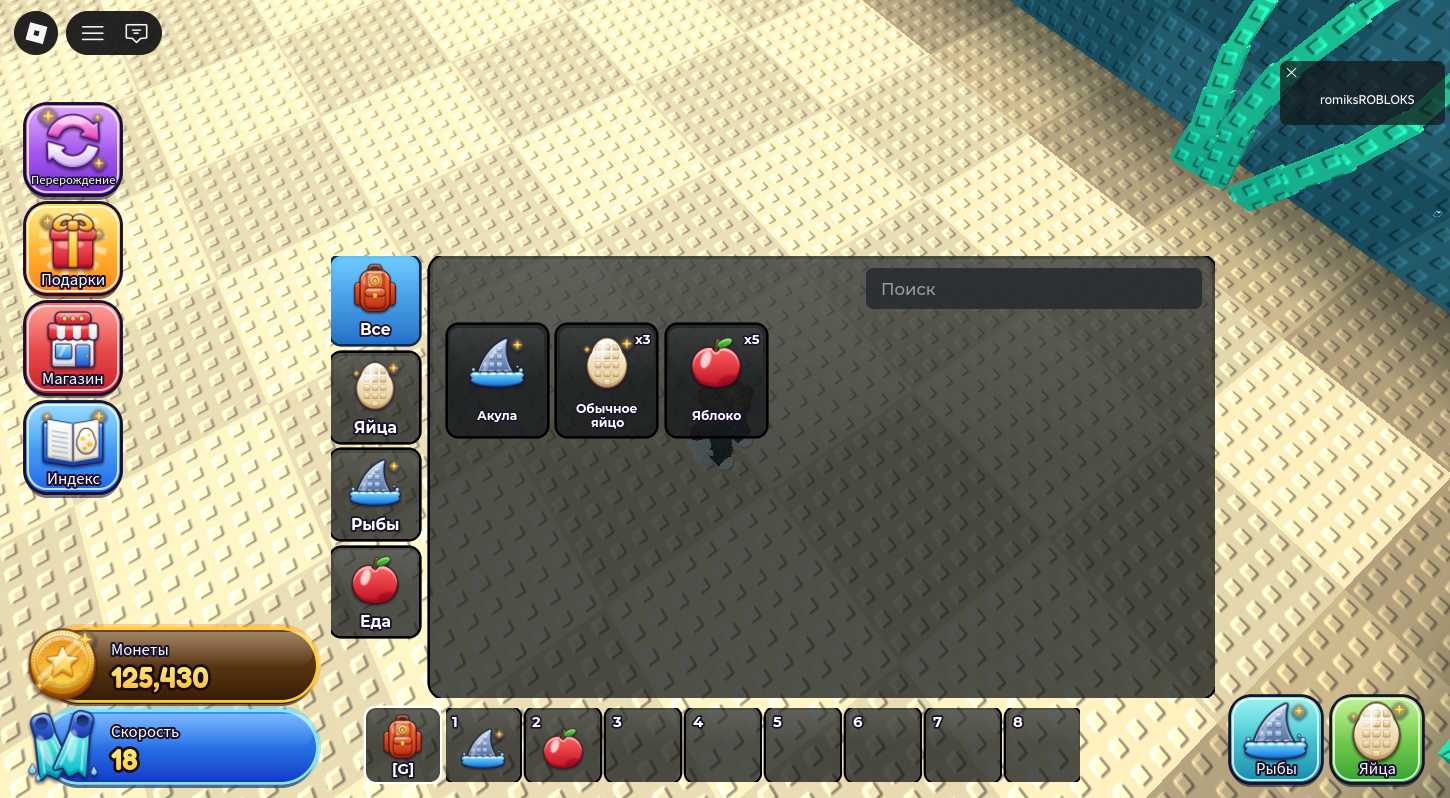
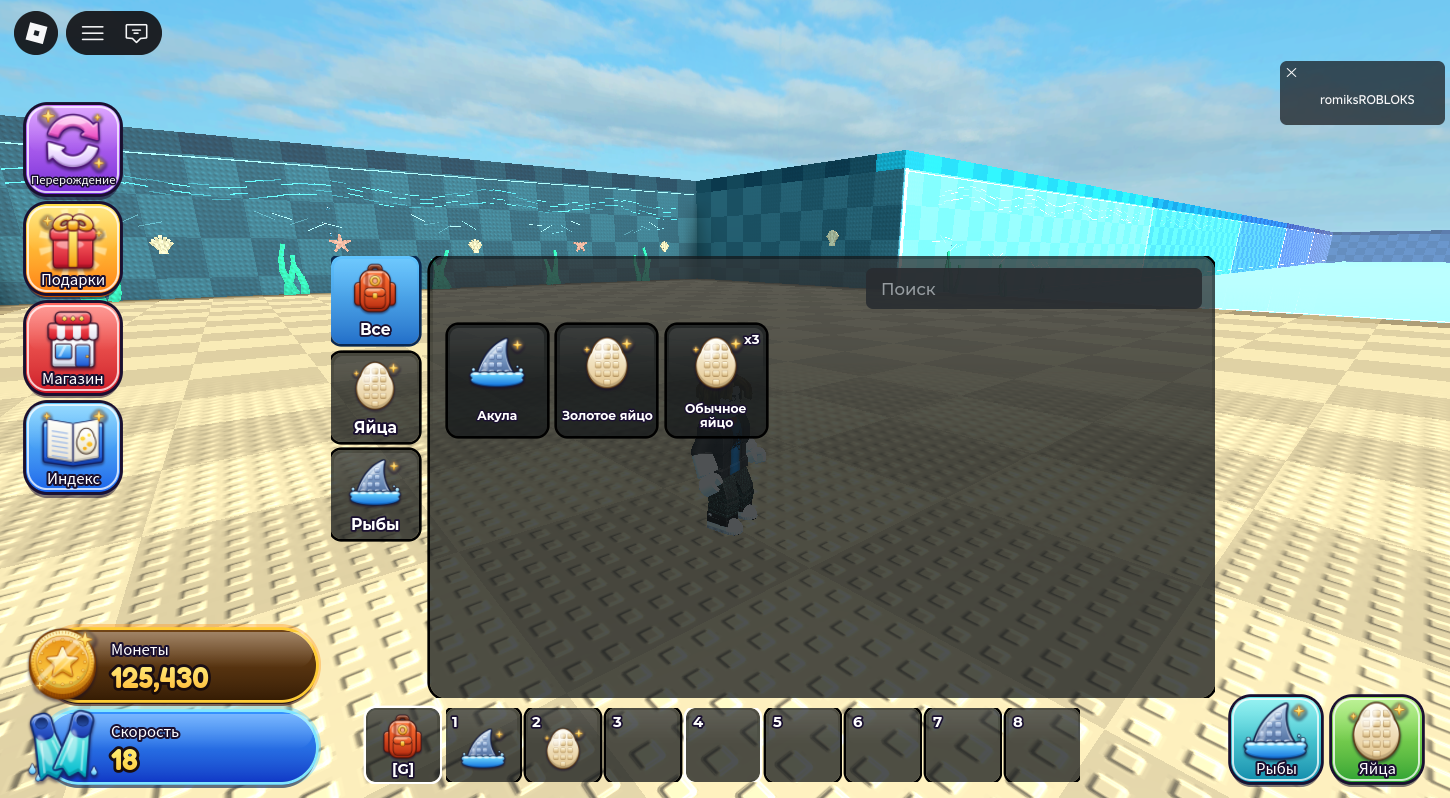
OceanHUD 3.4: remove the Food tab from the inventory
- Tabs are now Все / Яйца / Рыбы; Food category, icon and sample item removed
- Studio sample: golden egg in hotbar slot 2 instead of apples
- 160 offline checks; verified in Studio

diff --git a/brain rot/OceanHUD/tools/draw_icons.py b/brain rot/OceanHUD/tools/draw_icons.py
@@ -411,22 +411,5 @@ def backpack():
     finish(cv, "Backpack")
 
 
-def food():
-    """Shiny red apple with a stem and a leaf."""
-    cv = canvas()
-    outline = (80, 8, 16)
-    apple = smooth(union(ell(400, 590, 290, 320), ell(624, 590, 290, 320), ell(512, 700, 330, 230)), 10)
-    apple = minus(apple, ell(512, 270, 70, 60))
-    part(cv, apple, (255, 96, 96), (192, 16, 36), outline, ow=24, gloss=False)
-    shine = inter(shrink(apple, 30), ell(340, 470, 80, 150, -20))
-    paint(cv, shine.filter(ImageFilter.GaussianBlur(10)), solid((255, 255, 255)), 0.75)
-    paint(cv, inter(shrink(apple, 20), ell(700, 820, 160, 80, 20)).filter(ImageFilter.GaussianBlur(16)), solid((120, 0, 20)), 0.45)
-    part(cv, rrect(490, 120, 540, 330, 20).rotate(-10, center=(512, 300), resample=Image.BICUBIC), (140, 90, 40), (90, 50, 20), outline=(50, 24, 8), ow=12, gloss=False)
-    leaf = ell(660, 190, 130, 62, 25)
-    part(cv, leaf, (140, 236, 90), (40, 150, 40), outline=(16, 70, 16), ow=14, gloss=False)
-    paint(cv, rrect(580, 186, 740, 196, 5).rotate(25, center=(660, 190), resample=Image.BICUBIC), solid((30, 110, 30)), 0.8)
-    finish(cv, "Food")
-
-
-for fn in (rebirth, gifts, shop, index, coin, flippers, shark_fin, egg_icon, sparkle_icon, backpack, food):
+for fn in (rebirth, gifts, shop, index, coin, flippers, shark_fin, egg_icon, sparkle_icon, backpack):
     fn()

diff --git a/brain rot/OceanHUD/README.md b/brain rot/OceanHUD/README.md
@@ -1,4 +1,4 @@
-# OceanHUD v3.3 — интерфейс игры
+# OceanHUD v3.4 — интерфейс игры
 
 ![HUD в Roblox Studio](OceanHUD-preview.png)
 
@@ -17,7 +17,7 @@
    чтобы они показывались без загрузки на Roblox.
 2. Открой **OceanMap-with-HUD.rbxl** и нажми **Play (F5)**.
    В Studio скрипт `OceanHUDTestData` сразу выставляет тестовые значения:
-   монеты 125,430, скорость 18, в инвентаре 3 яйца, акула и 5 яблок; акула в слоте 1, яблоко в слоте 2.
+   монеты 125,430, скорость 18, в инвентаре 3 обычных яйца, золотое яйцо и акула; акула в слоте 1, золотое яйцо в слоте 2.
 
 Во время игры можно выполнить в **Command Bar** (переключатель Server):
 
@@ -34,7 +34,7 @@ I.add(p, "BasicEgg", {Name = "Обычное яйцо", Category = "Eggs", Icon 
 - **Закрыт:** внизу по центру одна ячейка с рюкзаком и подписью `[G]`.
 - **Открыт** (клавиша **G**, клик по рюкзаку или кнопки «Рыбы»/«Яйца»):
   - рюкзак встаёт в начало хотбара и получает белую рамку, рядом появляются ячейки **1–8**;
-  - над хотбаром появляется окно: вкладки **Все / Яйца / Рыбы / Еда**, поиск и сетка предметов;
+  - над хотбаром появляется окно: вкладки **Все / Яйца / Рыбы**, поиск и сетка предметов;
   - если ничего не найдено, показывается надпись «Здесь пока ничего нет».
 - **Поиск** не учитывает регистр, в том числе для русских букв.
 - **Хотбар:** клавиши **1–8** или клик выбирают ячейку, повторное нажатие снимает выбор.
@@ -44,7 +44,7 @@ I.add(p, "BasicEgg", {Name = "Обычное яйцо", Category = "Eggs", Icon 
 
 **Данные инвентаря** хранит сервер (`OceanInventory`), клиент только показывает их.
 Каждый предмет — это `Folder` внутри `Player.Inventory` с атрибутами
-`DisplayName`, `Category` (`Eggs` / `Fish` / `Food`), `Icon`, `Count`, `HotbarSlot` (1–8, необязательно).
+`DisplayName`, `Category` (`Eggs` / `Fish`), `Icon`, `Count`, `HotbarSlot` (1–8, необязательно).
 Методы: `add`, `remove`, `count`, `setHotbar`.
 
 ## Иконки для опубликованной игры (обязательно)
@@ -53,7 +53,7 @@ I.add(p, "BasicEgg", {Name = "Обычное яйцо", Category = "Eggs", Icon 
 Чтобы иконки увидели другие игроки:
 
 1. В Studio открой **Window → Asset Manager → Bulk Import** и загрузи все PNG из папки `assets`:
-   `Rebirth`, `Gifts`, `Shop`, `Index`, `Coin`, `Flippers`, `SharkFin`, `Egg`, `Sparkle`, `Backpack`, `Food`.
+   `Rebirth`, `Gifts`, `Shop`, `Index`, `Coin`, `Flippers`, `SharkFin`, `Egg`, `Sparkle`, `Backpack`.
 2. Скопируй ID каждой картинки и вставь его в `src/modules/UIAssets.luau` → `UIAssets.Uploaded`,
    например `Coin = "rbxassetid://1234567890"`.
 3. Пересобери проект (см. ниже).
@@ -113,7 +113,7 @@ python tools/draw_icons.py assets
 
 `build.luau` создаёт `OceanHUD.rbxmx` (клиентский LocalScript с модулями), `OceanHUD-Server.rbxmx`
 (серверные скрипты) и `OceanMap-with-HUD.rbxl` — копию `OceanMap-v4` с интерфейсом. Сами файлы OceanMap не меняются.
-`check.luau` прогоняет 161 офлайн-проверку: данные, анимации, меню, инвентарь, раскладку и серверные модули.
+`check.luau` прогоняет 160 офлайн-проверок: данные, анимации, меню, инвентарь, раскладку и серверные модули.
 Версия 3.3 проверена вживую в Roblox Studio (скриншоты выше).
 
 Чтобы встроить интерфейс в другой плейс: вставь `OceanHUD.rbxmx` в **StarterPlayerScripts**,
